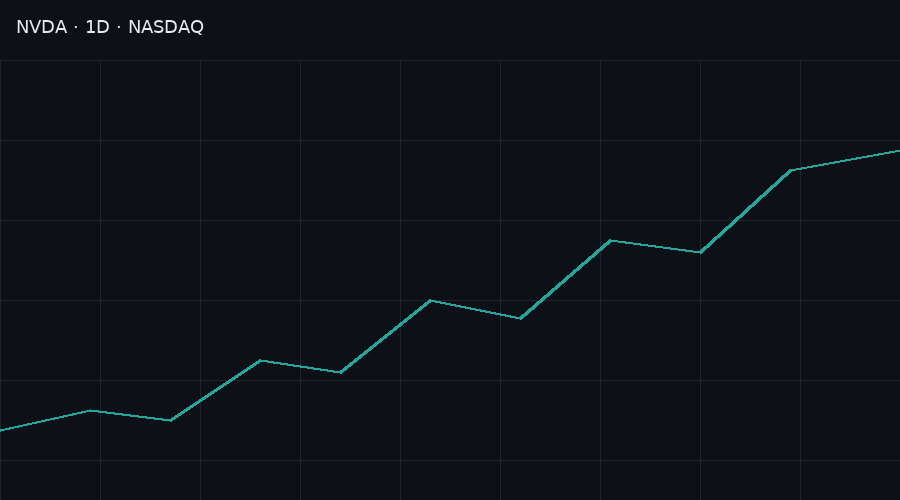
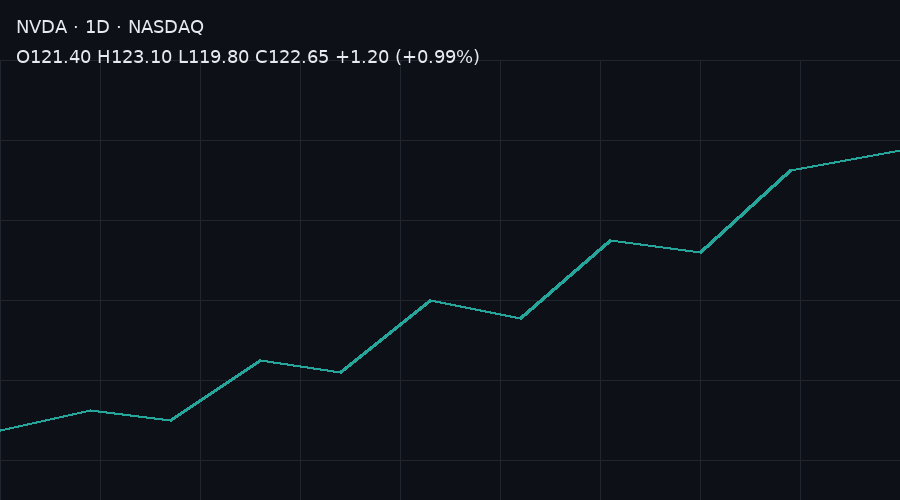
test(notebook): the screenshot-tag walk fixture gets the OHLC line a real chart header has
The one-line header read as three meaningful OCR tokens and the existing OCR usability floor
(document_ocr.USABLE_MIN_TOKENS = 4) rejected the page, so the product correctly offered nothing
and the walk's smart.screenshot-tag row could not measure the offer (walk run 1, 3 of 3 misses,
"[doc-ocr] ... output rejected as unusable (5 tokens)"). A second line, "O121.40 H123.10 L119.80
C122.65 +1.20 (+0.99%)", reads as usable text, and the server's resolver still finds exactly one
ticker (NVDA, exact tier). Tools and fixture only; no product code.

Changed region(s): [[0.0, 0.09, 0.5289, 0.15]]

diff --git a/tools/gen_chart_header_fixture.py b/tools/gen_chart_header_fixture.py
@@ -1,7 +1,7 @@
 """Make tools/fixtures/chart-header-nvda-1d.png, the screenshot the Tier 2 part A walk pastes.
 
-A 900x500 PNG on a dark background whose top-left reads "NVDA · 1D · NASDAQ" in 18 px sans text,
-the way a charting site headers a daily chart. The rest of the picture is a faint grid and a rising
+A 900x500 PNG on a dark background whose top-left reads "NVDA · 1D · NASDAQ" and, under it, an OHLC
+line, in 18 px sans text, the way a charting site headers a daily chart. The rest of the picture is a faint grid and a rising
 candle-less line, so the image looks like a chart and OCR has the header to read and little else.
 The walk step `smart.screenshot-tag` (tools/notebook_fin_walk_features.py) pastes it and waits for
 "Tag NVDA · Daily".
@@ -33,6 +33,10 @@ GRID = (32, 38, 47)
 INK = (230, 233, 238)
 LINE = (38, 166, 154)
 HEADER = "NVDA · 1D · NASDAQ"
+# The second line a charting site puts under the symbol. The existing OCR keeps a page only when it has at
+# least USABLE_MIN_TOKENS (4) meaningful tokens (document_ocr.text_is_usable); the one header line alone
+# reads as three, so the product -- correctly -- offered nothing and the walk could not measure the offer.
+HEADER_2 = "O121.40 H123.10 L119.80 C122.65 +1.20 (+0.99%)"
 FONT_PX = 18
 
 
@@ -50,6 +54,7 @@ def render() -> bytes:
     draw.line(pts, fill=LINE, width=3)
     font = ImageFont.truetype(str(FONT), FONT_PX)
     draw.text((16, 16), HEADER, font=font, fill=INK)
+    draw.text((16, 46), HEADER_2, font=font, fill=INK)
     buf = io.BytesIO()
     img.save(buf, format="PNG", optimize=False)
     return buf.getvalue()
